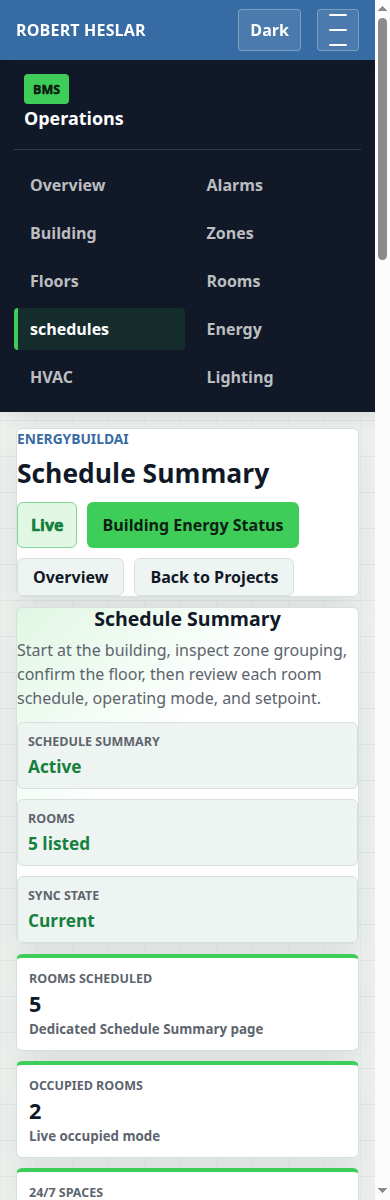
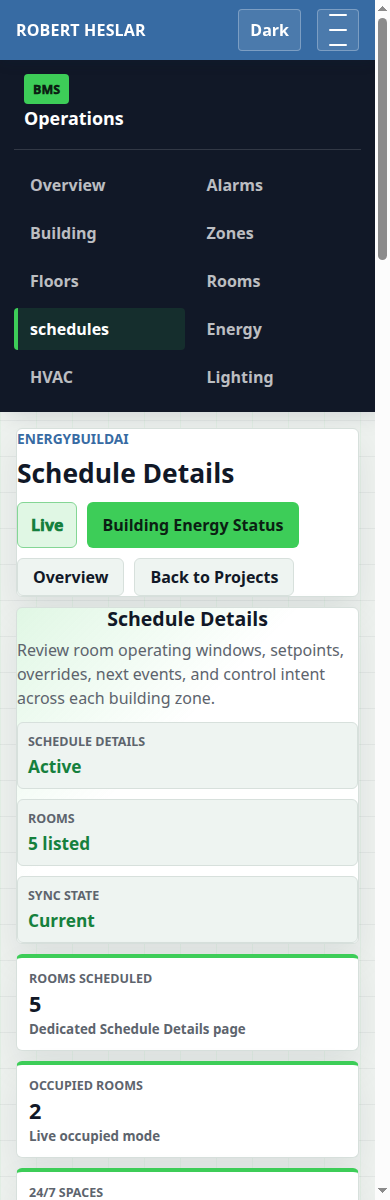
Update schedule details evidence and workflow runtime

Changed region(s): [[0.0308, 0.4933, 0.8923, 0.6475], [0.3692, 0.37, 0.7077, 0.4317], [0.4308, 0.8325, 0.6769, 0.8633]]

diff --git a/src/components/Dashboard.tsx b/src/components/Dashboard.tsx
@@ -351,7 +351,7 @@ function Dashboard({ activeView = 'Overview' }: DashboardProps) {
   ];
 
   const scheduleKpis = [
-    { label: 'Rooms scheduled', value: String(roomSchedules.length), helper: 'Dedicated Schedule Summary page' },
+    { label: 'Rooms scheduled', value: String(roomSchedules.length), helper: 'Dedicated Schedule Details page' },
     { label: 'Occupied rooms', value: String(roomSchedules.filter((room) => room.mode === 'Occupied').length), helper: 'Live occupied mode' },
     { label: '24/7 spaces', value: String(roomSchedules.filter((room) => room.schedule === '24/7').length), helper: 'Critical operations' },
     { label: 'Overrides', value: String(roomSchedules.filter((room) => room.override !== 'None').length), helper: 'Auto-clear, locked, and AI trim states' }
@@ -369,14 +369,14 @@ function Dashboard({ activeView = 'Overview' }: DashboardProps) {
       : isBuildingView
         ? 'Building Summary opens as a dedicated dashboard subpage for core facility status.'
       : isScheduleView
-        ? 'Schedule Summary'
+        ? 'Schedule Details'
       : '';
   const heroCopy = isAlarmView
     ? 'Select an alarm to inspect its location, source point, current reading, threshold, likely cause, impact, response steps, and event history.'
     : isBuildingView
       ? 'Use the Building tab for a concise view of the building, floors, zones, rooms, and connected systems.'
       : isScheduleView
-        ? 'Start at the building, inspect zone grouping, confirm the floor, then review each room schedule, operating mode, and setpoint.'
+        ? 'Review room operating windows, setpoints, overrides, next events, and control intent across each building zone.'
       : 'Real-time energy zones, comfort risk, alarm state, equipment health, portfolio evidence, and AI-assisted BEMS recommendations are arranged like an operational building dashboard.';
   const systemSummary = isAlarmView
     ? [
@@ -388,11 +388,11 @@ function Dashboard({ activeView = 'Overview' }: DashboardProps) {
       ? [
           { label: 'Building', value: 'Online' },
           { label: 'Floors', value: `${floorSummaries.length} active` },
-          { label: 'Schedule Summary', value: 'Synced' }
+          { label: 'Schedule Details', value: 'Synced' }
         ]
       : isScheduleView
         ? [
-            { label: 'Schedule Summary', value: 'Active' },
+            { label: 'Schedule Details', value: 'Active' },
             { label: 'Rooms', value: `${roomSchedules.length} listed` },
             { label: 'Sync State', value: 'Current' }
           ]
@@ -428,7 +428,7 @@ function Dashboard({ activeView = 'Overview' }: DashboardProps) {
         <section className="eco-topbar">
           <div>
             <p className="detail-kicker">EnergyBuildAI</p>
-            <h1>{isAlarmView ? 'Alarm Response Center' : isBuildingView ? 'Building Summary' : isScheduleView ? 'Schedule Summary' : 'Building Operation Center'}</h1>
+            <h1>{isAlarmView ? 'Alarm Response Center' : isBuildingView ? 'Building Summary' : isScheduleView ? 'Schedule Details' : 'Building Operation Center'}</h1>
           </div>
           <div className="eco-topbar-actions">
             <span className="eco-live-pill">Live</span>
@@ -441,7 +441,7 @@ function Dashboard({ activeView = 'Overview' }: DashboardProps) {
                 className="cta-button secondary-cta"
                 onClick={() => jumpToDashboardContent('Schedules')}
               >
-                Schedule Summary
+                Schedule Details
               </button>
             )}
             <button
@@ -461,7 +461,7 @@ function Dashboard({ activeView = 'Overview' }: DashboardProps) {
           <section className="eco-command-hero">
             <div>
               <h2>{heroTitle}</h2>
-              <p>{heroCopy}</p>
+              {heroCopy && <p>{heroCopy}</p>}
             </div>
             <div className="eco-system-summary" aria-label="System health summary">
               {systemSummary.map((item) => (
@@ -699,7 +699,7 @@ function Dashboard({ activeView = 'Overview' }: DashboardProps) {
               <div className="eco-card-heading">
                 <div>
                   <span>Building Hierarchy</span>
-                  <h2>Schedule Summary</h2>
+                  <h2>Schedule Details</h2>
                   <p>Dedicated schedule view organized from building to zone, floor, and room-level operating windows.</p>
                 </div>
                 <strong>{roomSchedules.length} rooms</strong>

diff --git a/src/App.test.tsx b/src/App.test.tsx
@@ -9,6 +9,13 @@ const actEnvironment = globalThis as typeof globalThis & {
 
 actEnvironment.IS_REACT_ACT_ENVIRONMENT = true;
 
+beforeAll(() => {
+  Object.defineProperty(window, 'scrollTo', {
+    value: jest.fn(),
+    writable: true
+  });
+});
+
 test('renders the loading screen before the portfolio is ready', () => {
   const container = document.createElement('div');
   document.body.appendChild(container);
@@ -67,4 +74,34 @@ test('redirects BMS login to the dashboard after successful credentials', () => 
   container.remove();
   localStorage.clear();
   window.location.hash = '';
+});
+
+test('renders Schedule Details directly from #dashboard/schedules', () => {
+  jest.useFakeTimers();
+  const container = document.createElement('div');
+  document.body.appendChild(container);
+  window.location.hash = '#dashboard/schedules';
+  let root: Root | undefined;
+
+  act(() => {
+    root = createRoot(container);
+    root.render(<App />);
+  });
+
+  act(() => {
+    jest.advanceTimersByTime(600);
+  });
+
+  expect(container.textContent).toContain('Schedule Details');
+  expect(container.textContent).toContain('schedules');
+  expect(container.textContent).toContain('Review room operating windows, setpoints, overrides, next events, and control intent across each building zone.');
+  expect(container.textContent).not.toContain('Start at the building, inspect zone grouping');
+  expect(container.textContent).not.toContain('Secure BMS Access');
+
+  act(() => {
+    root?.unmount();
+  });
+  container.remove();
+  window.location.hash = '';
+  jest.useRealTimers();
 });

diff --git a/src/data/projects.ts b/src/data/projects.ts
@@ -846,7 +846,7 @@ const baseProjects: Project[] = [
         focus: 'BEMS-ai integration, service contracts, telemetry flow, deployment evidence model'
       },
       {
-        title: 'EnergyBuildAI Schedule Summary Details',
+        title: 'EnergyBuildAI Schedule Details',
         path: 'docs/energybuildai-schedule-details.md',
         url: 'https://github.com/rheslar1/Rheslar1-github.io/blob/main/docs/energybuildai-schedule-details.md',
         focus: 'Schedule route, building-zone-floor-room schedule rows, override rules, dampers, motors, fans, and final screenshot evidence'
@@ -873,7 +873,7 @@ const baseProjects: Project[] = [
         title: 'Operator Manual',
         path: 'docs/bems-final-content/operator-manual.md',
         url: 'https://github.com/rheslar1/Rheslar1-github.io/blob/main/docs/bems-final-content/operator-manual.md',
-        focus: 'Recurring login, building, room, alarm, Schedule Summary, reports, and system-health workflows'
+        focus: 'Recurring login, building, room, alarm, Schedule Details, reports, and system-health workflows'
       },
       {
         title: 'CI And Deployment Evidence',

diff --git a/docs/energybuildai-schedule-api-seed-evidence.md b/docs/energybuildai-schedule-api-seed-evidence.md
@@ -1,0 +1,94 @@
+# EnergyBuildAI Schedule API And Seed Evidence
+
+This evidence documents the current seeded Schedule Details rows used by the portfolio dashboard at `#dashboard/schedules`.
+
+## Source Boundary
+
+- UI route: `#dashboard/schedules`
+- Component data source: `src/components/Dashboard.tsx`
+- Seed object: `roomSchedules`
+- Backend status: portfolio-seeded evidence, ready to map to BEMS API/database rows when the dashboard is connected to live BMS services.
+
+## Seed Records
+
+```json
+[
+  {
+    "building": "EnergyBuildAI Tower",
+    "zone": "Lobby",
+    "floor": "Ground",
+    "room": "Lobby",
+    "schedule": "06:00-20:00",
+    "mode": "Occupied",
+    "setpoint": "72 F",
+    "source": "Primary weekday",
+    "nextEvent": "20:00 lighting setback",
+    "override": "Auto-clear pending",
+    "controlIntent": "Comfort entry path with lobby lighting pulse"
+  },
+  {
+    "building": "EnergyBuildAI Tower",
+    "zone": "Floor 1",
+    "floor": "Floor 1",
+    "room": "Conference 101",
+    "schedule": "08:30-17:30",
+    "mode": "Reserved",
+    "setpoint": "71 F",
+    "source": "Room reservation",
+    "nextEvent": "17:30 unoccupied reset",
+    "override": "None",
+    "controlIntent": "Meeting comfort during booked occupancy"
+  },
+  {
+    "building": "EnergyBuildAI Tower",
+    "zone": "Floor 2",
+    "floor": "Floor 2",
+    "room": "Engineering Lab",
+    "schedule": "07:30-18:30",
+    "mode": "Occupied",
+    "setpoint": "72 F",
+    "source": "Lab calendar",
+    "nextEvent": "18:30 ventilation setback",
+    "override": "None",
+    "controlIntent": "Maintain lab ventilation and occupied comfort"
+  },
+  {
+    "building": "EnergyBuildAI Tower",
+    "zone": "Tower B Floor 1",
+    "floor": "Tower B",
+    "room": "Server Room",
+    "schedule": "24/7",
+    "mode": "Cooling priority",
+    "setpoint": "68 F",
+    "source": "Critical space",
+    "nextEvent": "Continuous cooling guard",
+    "override": "Locked",
+    "controlIntent": "Protect server load from temperature drift"
+  },
+  {
+    "building": "EnergyBuildAI Tower",
+    "zone": "Tower B Floor 1",
+    "floor": "Tower B",
+    "room": "Tower Office",
+    "schedule": "07:00-19:00",
+    "mode": "Demand response",
+    "setpoint": "73 F",
+    "source": "BEMS-ai peak guard",
+    "nextEvent": "15:00 load trim review",
+    "override": "AI trim active",
+    "controlIntent": "Reduce peak demand while preserving comfort"
+  }
+]
+```
+
+## API Mapping
+
+When wired to the BEMS API, these rows map to:
+
+- `GET /api/schedules`: list building, zone, floor, room, and operating-window records.
+- `GET /api/rooms/:roomId/schedule`: return one room schedule with mode, setpoint, source, next event, override, and control intent.
+- `PATCH /api/schedules/:scheduleId`: update operating windows, override state, or source.
+
+## Provenance
+
+This is deterministic portfolio seed evidence. It is not live building telemetry. The rows are intentionally aligned with the screenshots in `docs/evidence/energybuildai-schedules-desktop.png` and `docs/evidence/energybuildai-schedules-mobile.png`.

diff --git a/docs/energybuildai-schedule-details.md b/docs/energybuildai-schedule-details.md
@@ -1,6 +1,6 @@
-# EnergyBuildAI Schedule Summary Details
+# EnergyBuildAI Schedule Details
 
-This document describes the Schedule Summary details shown in the portfolio dashboard at `#dashboard/schedules`.
+This document describes the Schedule Details view shown in the portfolio dashboard at `#dashboard/schedules`.
 
 ## Dashboard Route
 
@@ -45,12 +45,15 @@ The dashboard also surfaces equipment that influences schedule execution:
 
 ## Captured Evidence
 
-- `docs/evidence/energybuildai-schedules-desktop.png`: desktop screenshot of the Schedule Summary route at `#dashboard/schedules`.
-- `docs/evidence/energybuildai-schedules-mobile.png`: mobile screenshot of the Schedule Summary route at `#dashboard/schedules`.
+- `docs/evidence/energybuildai-schedules-desktop.png`: desktop screenshot of the Schedule Details route at `#dashboard/schedules`.
+- `docs/evidence/energybuildai-schedules-mobile.png`: mobile screenshot of the Schedule Details route at `#dashboard/schedules`.
 - `docs/evidence/energybuildai-building-summary-desktop.png`: screenshot of the Building Summary view after the wording update.
 - `docs/evidence/energybuildai-equipment-systems-desktop.png`: screenshot of fans, dampers, motors, pump motor, and lighting relay system details.
+- `docs/energybuildai-schedule-api-seed-evidence.md`: seeded schedule rows and future BEMS API mapping.
+- `docs/energybuildai-schedule-route-test-report.md`: automated route parsing test report for `#dashboard/schedules`.
 
-## Final Evidence Still Suggested
+## Final Evidence Status
 
-- API response or database seed record for schedule rows when the dashboard is connected to live BMS data.
-- Test report confirming that schedule route parsing opens Schedule Summary directly from the hash route.
+- Seed/API evidence is captured for the current portfolio-seeded dashboard data.
+- Automated route parsing evidence is captured in the React test report.
+- Future live-BMS evidence should replace or augment the seed document after the dashboard connects to a live database/API.

diff --git a/docs/evidence/README.md b/docs/evidence/README.md
@@ -4,8 +4,8 @@ Generated evidence captured from the local production build and deterministic pr
 
 ## EnergyBuildAI Dashboard
 
-- `energybuildai-schedules-desktop.png`: desktop capture of `#dashboard/schedules` with the Schedule Summary view, building-zone-floor-room details, schedule source, next event, override state, and control intent.
-- `energybuildai-schedules-mobile.png`: mobile capture of the Schedule Summary route at `#dashboard/schedules`.
+- `energybuildai-schedules-desktop.png`: desktop capture of `#dashboard/schedules` with the Schedule Details view, building-zone-floor-room details, schedule source, next event, override state, and control intent.
+- `energybuildai-schedules-mobile.png`: mobile capture of the Schedule Details route at `#dashboard/schedules`.
 - `energybuildai-building-summary-desktop.png`: desktop capture of `#dashboard/building` after renaming the page to Building Summary and adding expanded systems context.
 - `energybuildai-equipment-systems-desktop.png`: desktop capture focused on fans, dampers, motors, pump motor, and lighting relay system health.
 

diff --git a/docs/portfolio-screenshot-matrix.md b/docs/portfolio-screenshot-matrix.md
@@ -9,7 +9,7 @@ Screenshots were captured from the production build served locally on port `4173
 | BEMS project detail | `docs/evidence/portfolio-project-bems-desktop.png` | `docs/evidence/portfolio-project-bems-mobile.png` |
 | BMS login | `docs/evidence/bms-login-01-sign-in.png` | `docs/evidence/bms-login-01-sign-in-mobile.png` |
 | Dashboard landing | `docs/evidence/bms-login-02-dashboard-landing.png` | `docs/evidence/bms-login-02-dashboard-landing-mobile.png` |
-| EnergyBuildAI Schedule Summary | `docs/evidence/energybuildai-schedules-desktop.png` | `docs/evidence/energybuildai-schedules-mobile.png` |
+| EnergyBuildAI Schedule Details | `docs/evidence/energybuildai-schedules-desktop.png` | `docs/evidence/energybuildai-schedules-mobile.png` |
 | Building Summary and equipment | `docs/evidence/energybuildai-equipment-systems-desktop.png` | Add mobile detail capture after next UI pass. |
 
 ## Simulation Screenshot Set

diff --git a/docs/energybuildai-schedule-route-test-report.md b/docs/energybuildai-schedule-route-test-report.md
@@ -1,0 +1,31 @@
+# EnergyBuildAI Schedule Route Test Report
+
+## Purpose
+
+Confirm that the static portfolio route `#dashboard/schedules` opens the dashboard schedule view directly.
+
+## Test
+
+Automated coverage lives in `src/App.test.tsx`.
+
+```text
+renders Schedule Details directly from #dashboard/schedules
+```
+
+The test sets `window.location.hash = '#dashboard/schedules'`, renders `App`, advances the loading timer, and verifies:
+
+- the dashboard renders the `Schedule Details` page title,
+- the left operation sidebar renders `schedules`,
+- the operator copy is `Review room operating windows, setpoints, overrides, next events, and control intent across each building zone.`,
+- the previous long intro text is absent,
+- the BMS login page is not shown.
+
+## Command
+
+```bash
+npm test -- --watchAll=false
+```
+
+## Expected Result
+
+The route parsing test passes with the rest of the React test suite.

diff --git a/docs/bems-final-content/operator-manual.md b/docs/bems-final-content/operator-manual.md
@@ -27,7 +27,7 @@
 3. Review source, current reading, threshold, likely cause, impact, and action.
 4. Acknowledge or clear in the BMS UI/API workflow when connected to backend data.
 
-## Schedule Summary Review
+## Schedule Details Review
 
 1. Open `#dashboard/schedules`.
 2. Review building, zone, floor, room, schedule, mode, setpoint, source, next event, override, and control intent.
